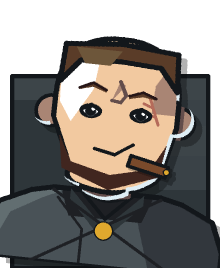
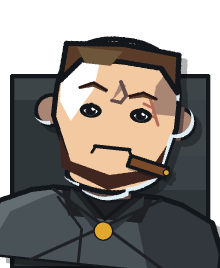
Harden Orlov and Ferrow and clear Morn's hammer from the frame
Two of the six grey rows still read friendly: Orlov's smirk and Ferrow's
bared teeth, both over eyes big enough to catch the light twice. Both take
a clenched mouth and a smaller eye dial instead.

Morn's hammer head was cut flat by the first row of the portrait, which
reads as a crop accident rather than as an object leaving the frame. The
head drops far enough to clear it once his pose is applied, and a test
holds it there.

Changed region(s): [[0.4091, 0.5373, 0.6273, 0.597], [0.3545, 0.3881, 0.4636, 0.4478], [0.5727, 0.4179, 0.7091, 0.4776]]

diff --git a/generators/portraits/tests/test_props.py b/generators/portraits/tests/test_props.py
@@ -167,6 +167,18 @@ class TheCigarClearsTheMouth(unittest.TestCase):
         self.assertIn((*props.GOLD, 255), colours)
 
 
+class TheHammerClearsTheTopOfTheFrame(unittest.TestCase):
+    """Radek Morn's hammer head was cut flat by the first row of the portrait,
+    which reads as a crop accident. It is the head's own edge that has to clear
+    the frame, so this is measured on the hammer rather than on every prop:
+    Ivar Thorne's axe leaves the same edge on a diagonal, which reads as an
+    object continuing past the frame instead of one sliced off by it."""
+
+    def test_the_head_stops_short_of_the_first_row(self):
+        top = bust.prop_art(roster.FACES["radek_morn"]).getbbox()[1]
+        self.assertGreater(top, 0)
+
+
 class EveryPropCasts(unittest.TestCase):
     def test_the_shadow_lands_outside_the_prop(self):
         for key in sorted(props.PROPS):

diff --git a/generators/portraits/portraitgen/roster.py b/generators/portraits/portraitgen/roster.py
@@ -150,8 +150,8 @@ FACES: dict[str, Face] = {
             style="buzz",
             brow="cocked",
             eyes="lidded",
-            mouth="smirk",
-            eye=0.86,
+            mouth="clench",
+            eye=0.82,
             facial="stubble",
             acc="scar",
             collar="v",
@@ -399,8 +399,8 @@ FACES: dict[str, Face] = {
             style="buzz",
             brow="heavy",
             eyes="narrow",
-            mouth="snarl",
-            eye=0.94,
+            mouth="clench",
+            eye=0.84,
             facial="stubble",
             acc="fieldcap",
             acc2="scar",

diff --git a/generators/portraits/portraitgen/props.py b/generators/portraits/portraitgen/props.py
@@ -240,8 +240,8 @@ def _axe_back(canvas: Canvas, faction: Faction, ramp: Ramp) -> None:
 
 def _hammer_back(canvas: Canvas, faction: Faction, ramp: Ramp) -> None:
     _shape(canvas, [(162.0, 68.0), (180.0, 68.0), (176.0, 216.0), (158.0, 216.0)], WOOD)
-    _shape(canvas, _box(146.0, 42.0, 194.0, 76.0), STEEL)
-    canvas.rect((180.0, 44.0, 192.0, 74.0), (*SLATE, 255))
+    _shape(canvas, _box(148.0, 64.0, 192.0, 96.0), STEEL)
+    canvas.rect((180.0, 66.0, 190.0, 94.0), (*SLATE, 255))
 
 
 # --- what carries them, drawn in front ---------------------------------------
